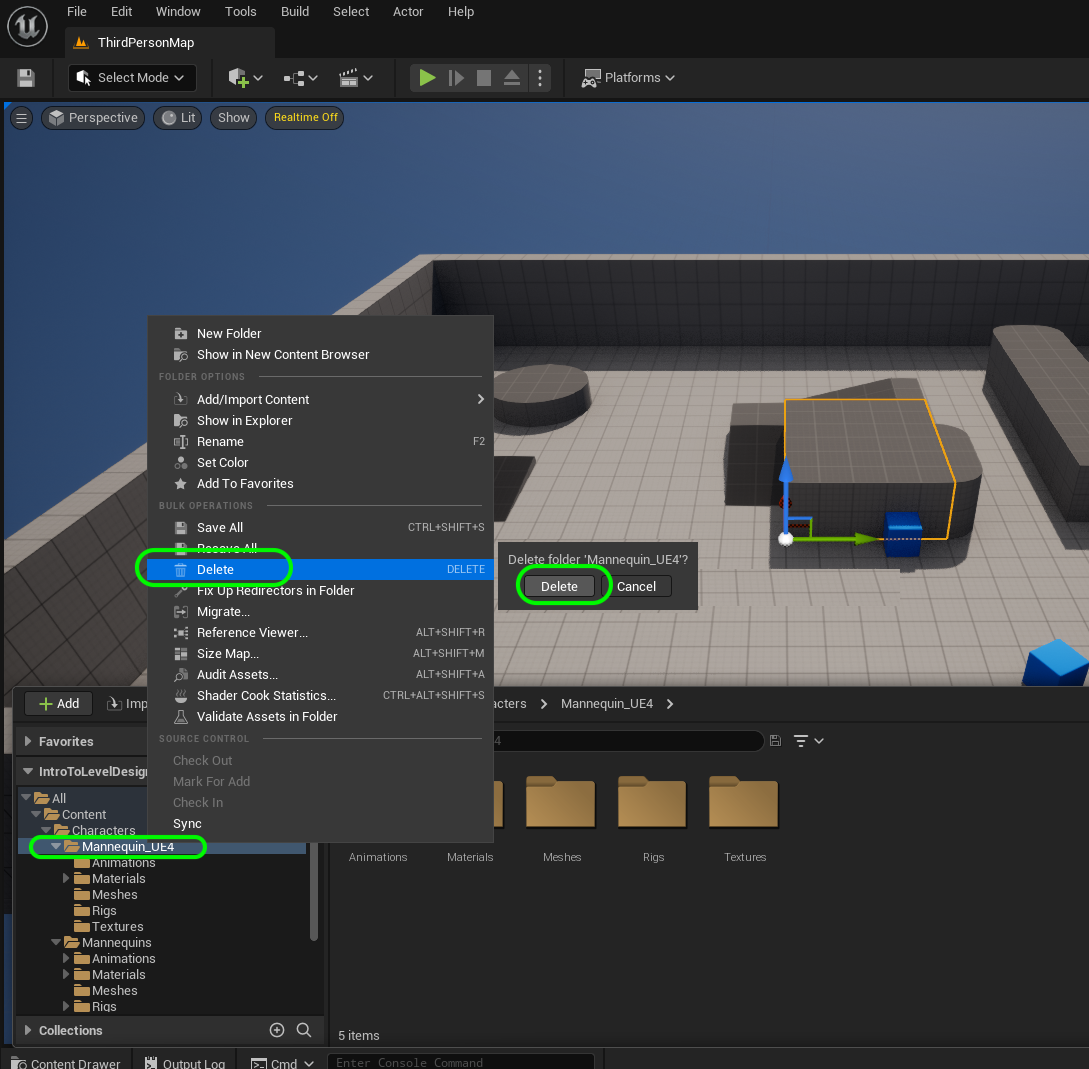
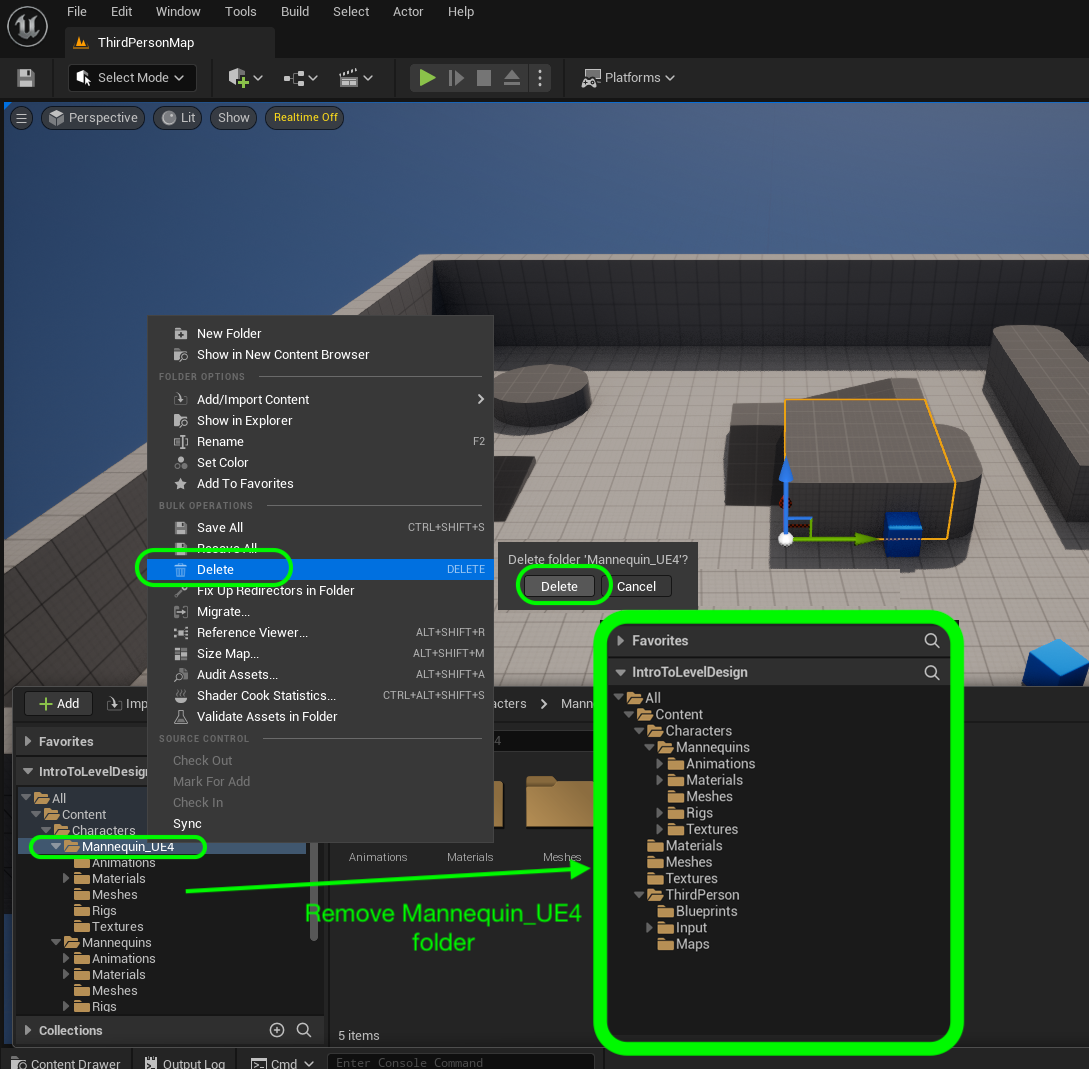
Update to Unreal 5.2

Changed region(s): [[0.1873, 0.5557, 0.9054, 0.9878]]

diff --git a/holodeck/README.md b/holodeck/README.md
@@ -14,11 +14,10 @@ Now we normally create a level where we test out all of our mechanics to make su
 
 ##### `Step 1.`\|`UE5LD`|:small_blue_diamond:
 
-Lets organize the content folder for our project and start a new level. Lets add a playable area to work with that simulates an average game. We have two **Meshes** (geometry) folders.  
-
-Lets start by cleaning up the current folder and removing elements we do not need.  There are two manequins, the old one and the new one.  Right mouse click on the **Mannequin_UE4** folder and select the <kbd>Delete</kbd> button.  Now a very small pop up appears and we press the <kbd>Delete</kbd> button for a second time.
+Lets organize the content folder and clean up the structure a bit. Lets start by cleaning up the current folder and removing elements we do not need.  There are two manequins, the old one and the new one.  Right mouse click on the **Mannequin_UE4** folder and select the <kbd>Delete</kbd> button.  Now a very small pop up appears and we press the <kbd>Delete</kbd> button for a second time.
 
 ![delete mannequin ue4 folder](images/deleteOldMannequin.png)
+
 
 ![](../images/line2.png)
 
@@ -33,6 +32,12 @@ Now **Unreal** leaves metatdata and breadcrumbs for moved and deleted files.  It
 ![](../images/line2.png)
 
 ##### `Step 3.`\|`UE5LD`|:small_blue_diamond: :small_blue_diamond: :small_blue_diamond:
+
+
+ for our project and start a new level. Lets add a playable area to work with that simulates an average game. We have two **Meshes** (geometry) folders.  
+
+![fix up redirects in folder](images/moveThreeToRoot.png)
+ 
 
 Sometimes a file is referenced and you do not delete all the folders.  You have to sometimes go back and delete them one at a time.
 
